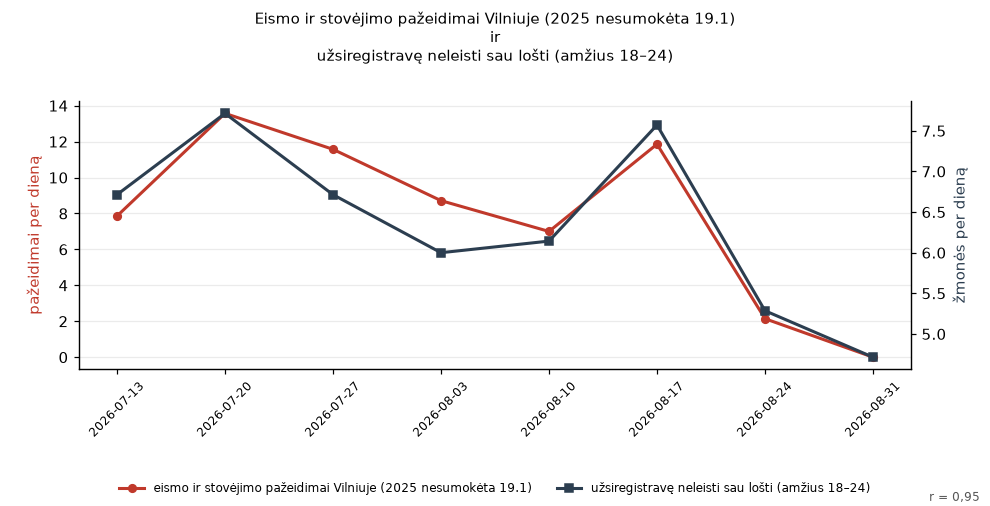
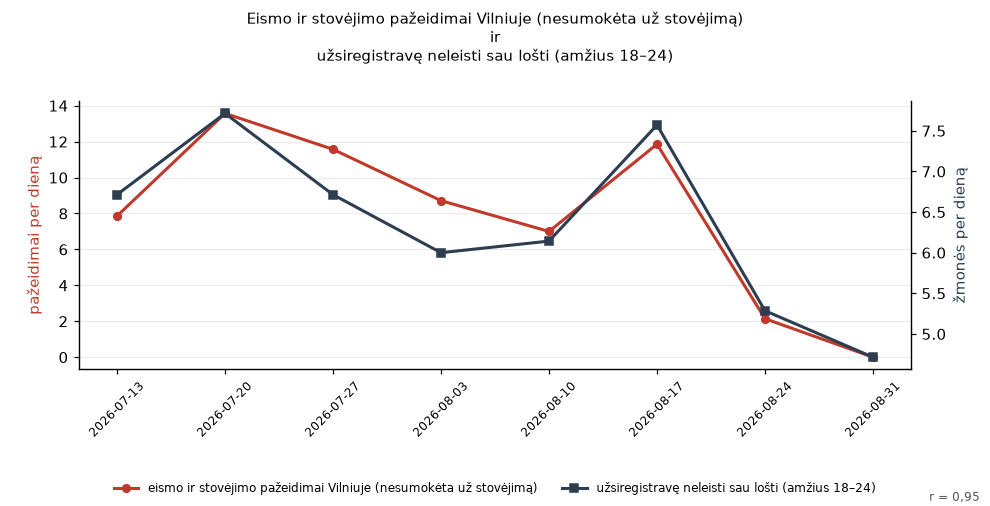
Post: readable offence label

Changed region(s): [[0.1212, 0.9486, 0.8788, 0.9783], [0.2424, 0.0296, 0.7576, 0.0593]]

diff --git a/post/2026-10-23-edaf36b6/index.html b/post/2026-10-23-edaf36b6/index.html
@@ -1,10 +1,10 @@
 <!doctype html>
 <html lang="lt"><head><meta charset="utf-8">
 <meta name="viewport" content="width=device-width, initial-scale=1">
-<title>Pastaraisiais mėnesiais lyg tyčia sutapo: eismo ir stovėjimo pažeidimai Vilniuje (2025 nesumokėta 19.1) ir užsiregistravę neleisti sau lošti (amžius 18–24) · Lyg tyčia</title>
+<title>Pastaraisiais mėnesiais lyg tyčia sutapo: eismo ir stovėjimo pažeidimai Vilniuje (nesumokėta už stovėjimą) ir užsiregistravę neleisti sau lošti (amžius 18–24) · Lyg tyčia</title>
 <meta property="og:type" content="article">
 <meta property="og:site_name" content="Lyg tyčia">
-<meta property="og:title" content="Pastaraisiais mėnesiais lyg tyčia sutapo: eismo ir stovėjimo pažeidimai Vilniuje (2025 nesumokėta 19.1) ir užsiregistravę neleisti sau lošti (amžius 18–24)">
+<meta property="og:title" content="Pastaraisiais mėnesiais lyg tyčia sutapo: eismo ir stovėjimo pažeidimai Vilniuje (nesumokėta už stovėjimą) ir užsiregistravę neleisti sau lošti (amžius 18–24)">
 <meta property="og:description" content="Eismo ir stovėjimo pažeidimai Vilniuje (2025 nesumokėta 19.1) ir užsiregistravę neleisti sau lošti (amžius 18–24) kyla ir krenta kartu: r = 0,95 per 8 sav. (2026-07-13 – 2026-08-31).">
 <meta property="og:url" content="https://1gnas3000.github.io/lygtycia/post/2026-10-23-edaf36b6/">
 <meta property="og:image" content="https://1gnas3000.github.io/lygtycia/post/2026-10-23-edaf36b6/chart.png">
@@ -26,18 +26,18 @@
 <article><p class="meta">2026-10-23
  · panašios kreivės · savaitės duomenys
  · r = 0,95</p>
-<h2>Pastaraisiais mėnesiais lyg tyčia sutapo: eismo ir stovėjimo pažeidimai Vilniuje (2025 nesumokėta 19.1) ir užsiregistravę neleisti sau lošti (amžius 18–24)</h2>
+<h2>Pastaraisiais mėnesiais lyg tyčia sutapo: eismo ir stovėjimo pažeidimai Vilniuje (nesumokėta už stovėjimą) ir užsiregistravę neleisti sau lošti (amžius 18–24)</h2>
 
 <p><a href="../../post/2026-10-23-edaf36b6/"><img src="../../post/2026-10-23-edaf36b6/chart.png"
  alt="grafikas" loading="lazy"></a></p>
 <p class="sources">Duomenų šaltiniai:
  <a href="https://get.data.gov.lt/datasets/gov/vilniaus_m_sav/nusizengimai/Pazeidimas" rel="noopener">Kelių eismo ir stovėjimo pažeidimai Vilniuje</a> · <a href="https://get.data.gov.lt/datasets/gov/lpt/registro_objektas/Objektas" rel="noopener">Asmenys, užsiregistravę neleisti sau lošti (LPT)</a></p>
 
-<p class="text">Eismo ir stovėjimo pažeidimai Vilniuje (2025 nesumokėta 19.1) ir užsiregistravę neleisti sau lošti (amžius 18–24) kyla ir krenta kartu: r = 0,95 per 8 sav. (2026-07-13 – 2026-08-31).</p><p class="text">Duomenys: „eismo ir stovėjimo pažeidimai Vilniuje (2025 nesumokėta 19.1)“ (pažeidimai) ir „užsiregistravę neleisti sau lošti (amžius 18–24)“ (žmonės).</p><p class="text">Tyler Vigen&#39;o „Spurious Correlations“ dvasia: iš tūkstančių atsitiktinių Lietuvos atvirų duomenų porų šios dvi nupiešė tą pačią kreivę.</p>
+<p class="text">Eismo ir stovėjimo pažeidimai Vilniuje (2025 nesumokėta 19.1) ir užsiregistravę neleisti sau lošti (amžius 18–24) kyla ir krenta kartu: r = 0,95 per 8 sav. (2026-07-13 – 2026-08-31).</p><p class="text">Duomenys: „eismo ir stovėjimo pažeidimai Vilniuje (nesumokėta už stovėjimą)“ (pažeidimai) ir „užsiregistravę neleisti sau lošti (amžius 18–24)“ (žmonės).</p><p class="text">Tyler Vigen&#39;o „Spurious Correlations“ dvasia: iš tūkstančių atsitiktinių Lietuvos atvirų duomenų porų šios dvi nupiešė tą pačią kreivę.</p>
 <p class="share">Dalintis:
  <a href="https://www.facebook.com/sharer/sharer.php?u=https%3A//1gnas3000.github.io/lygtycia/post/2026-10-23-edaf36b6/"
  rel="noopener">Facebook</a> ·
- <a href="https://mastodonshare.com/?text=Pastaraisiais%20m%C4%97nesiais%20lyg%20ty%C4%8Dia%20sutapo%3A%20eismo%20ir%20stov%C4%97jimo%20pa%C5%BEeidimai%20Vilniuje%20%282025%20nesumok%C4%97ta%2019.1%29%20ir%20u%C5%BEsiregistrav%C4%99%20neleisti%20sau%20lo%C5%A1ti%20%28am%C5%BEius%2018%E2%80%9324%29&url=https%3A//1gnas3000.github.io/lygtycia/post/2026-10-23-edaf36b6/"
+ <a href="https://mastodonshare.com/?text=Pastaraisiais%20m%C4%97nesiais%20lyg%20ty%C4%8Dia%20sutapo%3A%20eismo%20ir%20stov%C4%97jimo%20pa%C5%BEeidimai%20Vilniuje%20%28nesumok%C4%97ta%20u%C5%BE%20stov%C4%97jim%C4%85%29%20ir%20u%C5%BEsiregistrav%C4%99%20neleisti%20sau%20lo%C5%A1ti%20%28am%C5%BEius%2018%E2%80%9324%29&url=https%3A//1gnas3000.github.io/lygtycia/post/2026-10-23-edaf36b6/"
  rel="noopener">Mastodon</a> ·
  <a href="https://www.linkedin.com/sharing/share-offsite/?url=https%3A//1gnas3000.github.io/lygtycia/post/2026-10-23-edaf36b6/"
  rel="noopener">LinkedIn</a></p>

diff --git a/index.html b/index.html
@@ -18,7 +18,7 @@
 <p class="meta">Kasdien – dvi Lietuvos atvirų duomenų kreivės, kurios lyg tyčia sutapo.</p>
 </header>
 <article><p class="meta">2026-10-23</p>
-<h2><a href="./post/2026-10-23-edaf36b6/">Pastaraisiais mėnesiais lyg tyčia sutapo: eismo ir stovėjimo pažeidimai Vilniuje (2025 nesumokėta 19.1) ir užsiregistravę neleisti sau lošti (amžius 18–24)</a></h2>
+<h2><a href="./post/2026-10-23-edaf36b6/">Pastaraisiais mėnesiais lyg tyčia sutapo: eismo ir stovėjimo pažeidimai Vilniuje (nesumokėta už stovėjimą) ir užsiregistravę neleisti sau lošti (amžius 18–24)</a></h2>
 
 <p><a href="./post/2026-10-23-edaf36b6/"><img src="./post/2026-10-23-edaf36b6/chart.png"
  alt="grafikas" loading="lazy"></a></p>
@@ -29,7 +29,7 @@
 <p class="share">Dalintis:
  <a href="https://www.facebook.com/sharer/sharer.php?u=https%3A//1gnas3000.github.io/lygtycia/post/2026-10-23-edaf36b6/"
  rel="noopener">Facebook</a> ·
- <a href="https://mastodonshare.com/?text=Pastaraisiais%20m%C4%97nesiais%20lyg%20ty%C4%8Dia%20sutapo%3A%20eismo%20ir%20stov%C4%97jimo%20pa%C5%BEeidimai%20Vilniuje%20%282025%20nesumok%C4%97ta%2019.1%29%20ir%20u%C5%BEsiregistrav%C4%99%20neleisti%20sau%20lo%C5%A1ti%20%28am%C5%BEius%2018%E2%80%9324%29&url=https%3A//1gnas3000.github.io/lygtycia/post/2026-10-23-edaf36b6/"
+ <a href="https://mastodonshare.com/?text=Pastaraisiais%20m%C4%97nesiais%20lyg%20ty%C4%8Dia%20sutapo%3A%20eismo%20ir%20stov%C4%97jimo%20pa%C5%BEeidimai%20Vilniuje%20%28nesumok%C4%97ta%20u%C5%BE%20stov%C4%97jim%C4%85%29%20ir%20u%C5%BEsiregistrav%C4%99%20neleisti%20sau%20lo%C5%A1ti%20%28am%C5%BEius%2018%E2%80%9324%29&url=https%3A//1gnas3000.github.io/lygtycia/post/2026-10-23-edaf36b6/"
  rel="noopener">Mastodon</a> ·
  <a href="https://www.linkedin.com/sharing/share-offsite/?url=https%3A//1gnas3000.github.io/lygtycia/post/2026-10-23-edaf36b6/"
  rel="noopener">LinkedIn</a></p></article>
